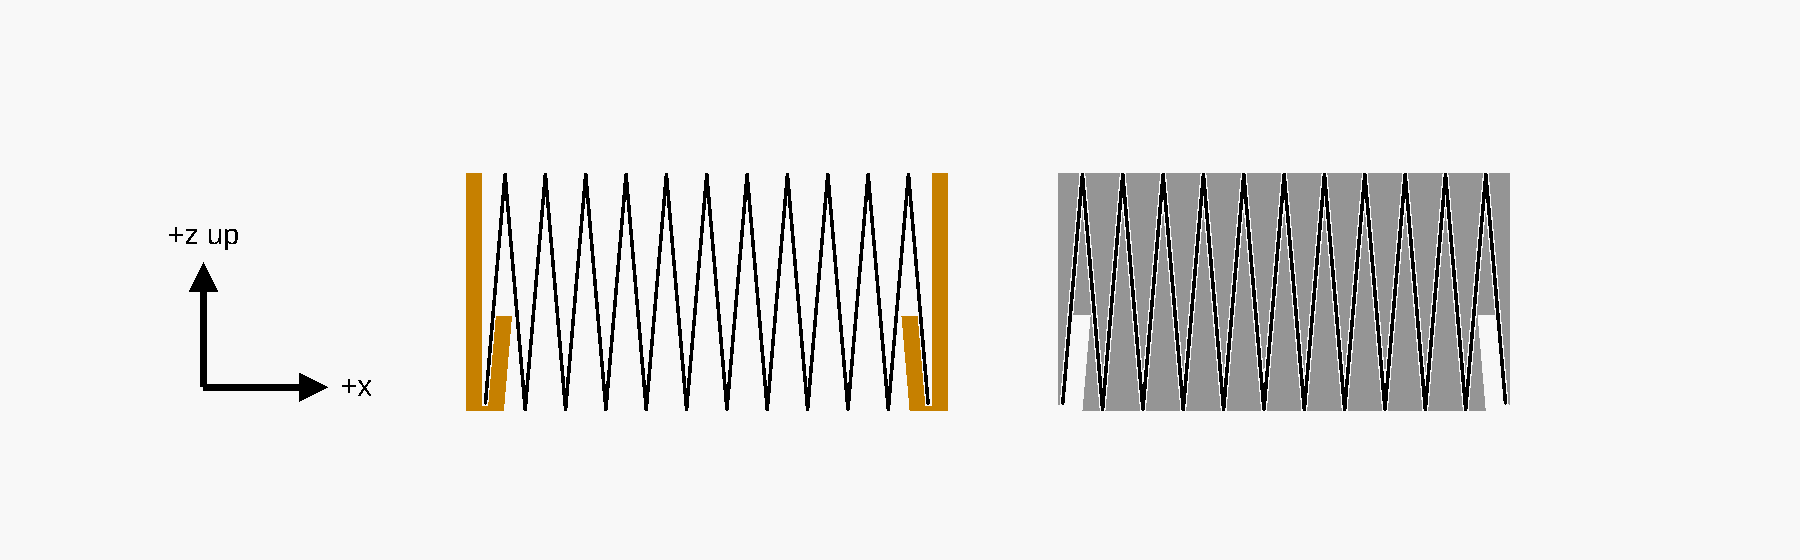
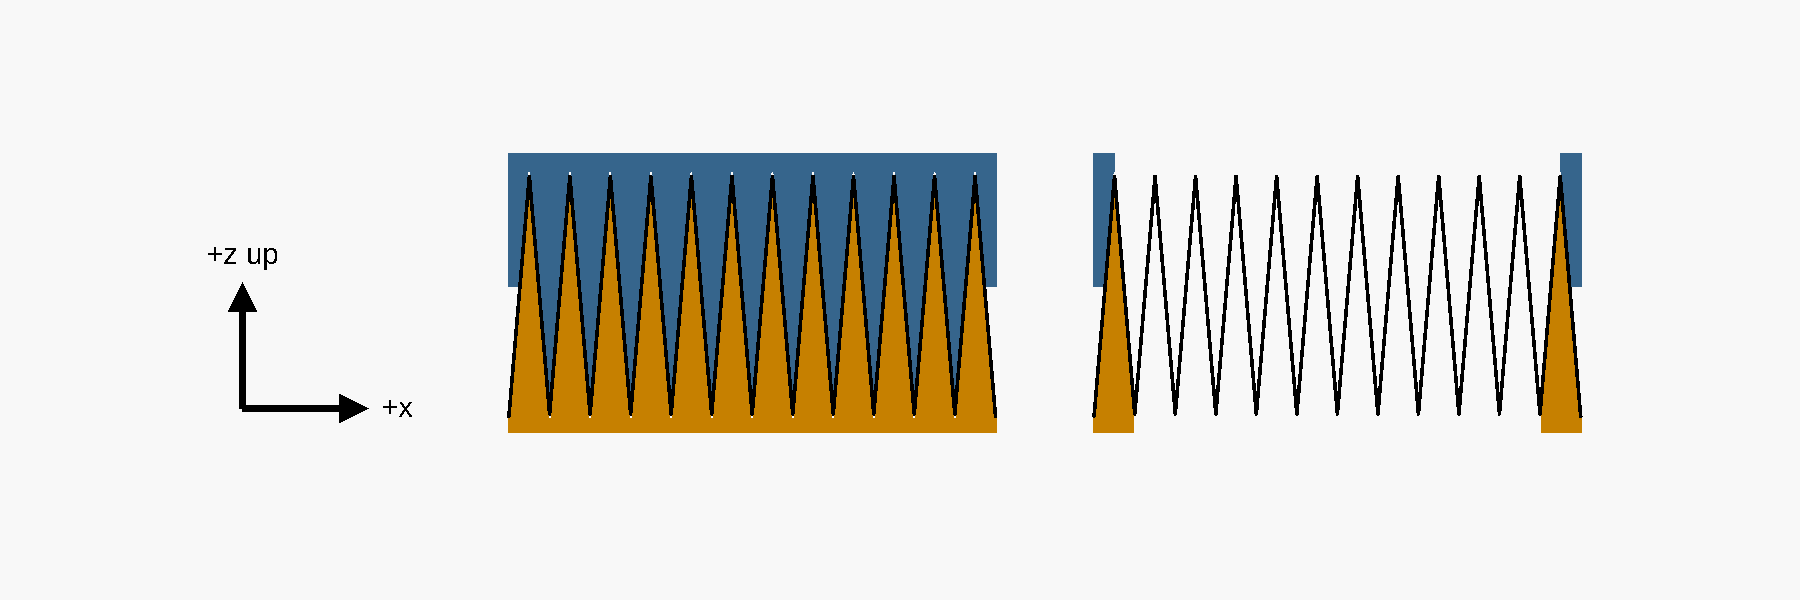
docs(bentobox): the HEPA paper's clamp on the build page
The section on your own HEPA paper now describes the clamp (D127): two
ASA frames, wedges and teeth pinching the cut ends in a 0.2 mm slot, the
flaps pinched along the long sides, the end blocks the one hard stop,
four M2 x 16 into pulled-in M2 nuts (M2 because an M2.5 nut leaves the
6.5 mm block under two beads), the cut - 87.1 mm by 11 pleats and a half
each side, 25 % more paper than the original's pocket took - how it goes
together, and the sample to try first. Parts table, print table,
hardware and the checks' description follow; the cap's picture gives
way to the frames as they print, and the section across the folds and
the frame's exploded view are drawn again.

Changed region(s): [[0.0933, 0.2429, 0.9022, 0.7589], [0.0933, 0.3946, 0.1556, 0.4554]]

diff --git a/scripts/bentobox-checks.py b/scripts/bentobox-checks.py
@@ -159,7 +159,7 @@ CAMERAS = {
     "section-bottom": ["--imgsize=1400,900", "--viewall", "--autocenter", "--camera=0,0,0,235,0,30,0"],
     "paper-frame": ["--imgsize=1400,1100", "--viewall", "--autocenter", "--camera=0,0,0,55,0,30,0"],
     "clamp-print": ["--imgsize=1400,900", "--viewall", "--autocenter", "--camera=0,0,0,55,0,25,0"],
-    "paper-cut": ["--imgsize=1800,560", "--projection=o", "--camera=-8,11,0,0,0,0,118"],
+    "paper-cut": ["--imgsize=1800,600", "--projection=o", "--camera=-12,11,0,0,0,0,125"],
     "auto-bottom": ["--imgsize=1400,1300", "--viewall", "--autocenter", "--camera=0,0,0,50,0,215,0"],
     "joints": ["--imgsize=1300,1800", "--viewall", "--autocenter", "--camera=0,0,0,62,0,30,0"],
 }

diff --git a/docs/bentobox-scrubber.md b/docs/bentobox-scrubber.md
@@ -24,8 +24,8 @@ The remix adds four parts, takes its bottom from the BentoBox Auto, and seals th
 | | What it does | File |
 |---|---|---|
 | **Section** | Goes between the carbon housing and the fan section, holding a flat filter sheet that stops carbon dust reaching the fans. Sealed at both its faces, with a pillar at each corner that the carbon housing's screws pass through. `sealed = false` builds it with the original's tongue, groove and magnets, to drop into any BentoBox v2.0 stack. | [`bentobox-section.scad`](../models/bentobox/bentobox-section.scad) |
-| **Paper ring** | Stands on the HEPA holder's ledge in place of the cartridge and holds a cut piece of pleated paper. | [`bentobox-hepa-ring.scad`](../models/bentobox/bentobox-hepa-ring.scad) |
-| **Paper cap** | Two, in TPU, one on each end of the paper: wedges from above and teeth from below hold the paper's cut end in a zigzag slot, closing its pleats' ends. | [`bentobox-hepa-cap.scad`](../models/bentobox/bentobox-hepa-cap.scad) |
+| **Paper clamp** | Two ASA frames, screwed together with a cut piece of pleated paper between them, standing on the HEPA holder's ledge in place of the cartridge: wedges from above and teeth from below pinch the paper's cut ends, and a bar from each its long edges. | [`bentobox-clamp-lower.scad`](../models/bentobox/bentobox-clamp-lower.scad), [`bentobox-clamp-upper.scad`](../models/bentobox/bentobox-clamp-upper.scad) |
+| **Clamp sample** | One end of each frame, on one plate: to try the pinch on an offcut before the whole clamp. | [`bentobox-clamp-sample.scad`](../models/bentobox/bentobox-clamp-sample.scad) |
 | **Base** | The Auto's, in place of the duct: the bay under it, the wires' tube, and six nuts where it had heat-set inserts: the fans' four pulled up into pockets, the plate's two in slots. | [`bentobox-auto-base.scad`](../models/bentobox/bentobox-auto-base.scad) |
 | **Fan section** | The Auto's, in place of the fan case, its top remixed for the sealed joint. | [`bentobox-auto-fans.scad`](../models/bentobox/bentobox-auto-fans.scad) |
 | **Plate** | The Auto's outline, closing the bay: flush with the base's bottom, its two screws' heads sunk in it. | [`bentobox-auto-plate.scad`](../models/bentobox/bentobox-auto-plate.scad) |
@@ -194,71 +194,75 @@ the original has it: magnets, a tongue on each top, a groove under each bottom.
 
 Pleated HEPA paper off a roll can take the bought cartridge's place. The original holder's pocket is
 82 × 40.8 mm, sized for the 80 mm cartridge: its ends are solid, flaring out only 15.6 mm above the ledge. The
-remix cuts the pocket out to the box's whole inside, 100.8 × 40.8 mm with its rounded corners, from the
-ledge up, and the ledge's opening with it, to 90.2 × 36.8 mm (78 × 36.8 on the original). A ring holds the
-paper there, with a slot along the foot of each long wall for the paper's edge, and a TPU cap on each end
-closes its pleats' ends. The ring's corners are square, so it stops where the pocket's corners begin to
-round: 93.3 mm long, and the paper in it 87.4, where it was 75.7 - 15 % more paper.
+remix cuts the pocket out to the box's whole inside, 100.8 × 40.8 mm with its rounded corners, from the ledge
+up, and the ledge's opening with it, to 87.5 × 36.8 mm (78 × 36.8 on the original).
 
-![The frame pulled apart: the ring, the cut paper above it with its folds running end to end, a cap drawn back from each end](bentobox/paper-frame.png)
+A clamp holds the paper there: two ASA frames with a cut piece of paper between them, screwed together into a
+cassette that stands on the ledge, 100.5 × 40.5 mm. It takes a piece 87.1 mm long and 40.3 mm across - 11
+pleats and a half each side - where the bought cartridge is 80 × 40 and the original's pocket took 75.7 ×
+37.2 of this paper: 25 % more paper than that.
+
+![The clamp pulled apart: the lower frame with its teeth, the cut paper over it with its folds running end to end, the upper frame with its wedges, and its four screws](bentobox/paper-frame.png)
 
 - **Why the ends need closing.** Pleated paper is a row of channels: one open at the top, where the dirty
   air comes in, then one open at the bottom, where it leaves after passing through the paper between them.
-  Cut, each channel is open at its ends too, and air could go round the paper there. Each cap has a wedge
-  in the end of every channel open at the top and a tooth in the end of every channel open at the bottom,
-  so the paper's cut end sits in a zigzag slot between them, 0.5 mm wide for 0.3 mm paper. The dirty side
-  is the one at higher pressure, by about 85 Pa, so the air presses the paper onto the teeth and closes
-  the slot; with wedges alone it would push the paper away from them. The teeth also hold up the paper's
-  ends, which stand over the ledge's opening, and they cover no paper the wedges do not already cover.
-- **The long sides.** The paper runs on half a pleat past its last top fold, down to the foot of the
-  ring's wall, as a flap. Its cut end stands in a slot between the wall and a strip moulded onto the wall's
-  foot, 8 mm tall. Dirty air between the flap and the wall presses the flap onto the strip, the whole
-  length of the ring: a strip of contact, not the line of a fold against a wall. At each end the flap runs
-  on into the cap's slot, so the seal goes round the corner.
+  Cut, each channel is open at its ends too, and air could go round the paper there. At each end the upper
+  frame has a wedge in every channel open at the top, and the lower frame a tooth in every channel open at
+  the bottom, 4 mm into the paper. Screwed together they leave a zigzag slot 0.2 mm wide for 0.3 mm paper:
+  the four screws pinch the paper's cut end between the wedges and the teeth. The pleats' walls lean only
+  5° from upright, so the last millimetre of the screws' travel closes the slot.
+- **The long sides.** The paper runs on half a pleat past its last top fold, down to the lower frame's rim,
+  as a flap. The upper frame's half wedge runs down outside it, the whole length, and the lower frame's tooth
+  under the last top fold inside it: the screws pinch the flap between them too.
+- **One hard stop.** Each end is a block in two halves, the upper frame's on the lower's, and the frames meet
+  nowhere else: the band round the top and the rim round the bottom stand 0.2 mm clear of the paper's folds,
+  so the slot's width is set by the frames, not by the paper.
 
-  ![Across the folds, flat: on the left the ring's middle, its walls and the strips at their feet, each flap down in its slot; on the right a cap's face, its wedges and teeth round the paper, notched where the strips pass](bentobox/paper-cut.png)
+  ![Across the folds, flat: on the left the clamp at an end, the upper frame's wedges and the lower frame's teeth round the paper's zigzag; on the right at its middle, a half wedge and a long tooth round each flap](bentobox/paper-cut.png)
+- **The screws.** Four M2 × 16 socket head, two at each end, from the top, their heads sunk in the upper
+  frame, into M2 nuts pulled up into seats in the lower frame, as the fans' nuts are in the base. M2, not the
+  M2.5 first drawn: an end block is 6.5 mm along the pleats, and an M2.5 nut's pocket leaves it under two
+  beads of wall.
 - **Cutting the paper.** For this build's paper, 20 mm deep with about 3.3 mm between top folds: a piece
-  **87.4 mm long along the folds, and 10 pleats across with half a pleat more each side** - both long
-  edges cut along a bottom fold. Count the pleats rather than measuring the width: folded, that is about
-  36.7 mm, and the ring spreads it to 37.2. The roll's 300 × 100 mm pack gives six pieces.
-- **Putting it together.** Push a cap onto each end of the piece, with its wedges at the top, where the
-  air comes in, and every pleat wall in its slot. Lower the three into the ring, each flap running down
-  between the wall and its strip; the ring stands on the ledge like the cartridge. To take it out, lift the
-  holder off the stack and tip it over. Print one cap first and try it on an offcut: the slots are barely
-  wider than a printed line, and how well TPU keeps them open is for the print to show.
-- **If dust gets round it.** Nothing is glued. If a dusty streak ever shows along an edge of the paper's
-  underside, run hot glue along that flap in its slot: standard sticks, not low-temperature ones, since the
-  chamber runs at about 45 °C during an ASA print. Hot glue peels off the ASA ring, so the ring can still
-  be used again.
+  **87.1 mm long along the folds, and 11 pleats across with half a pleat more each side** - both long edges
+  cut along a bottom fold. Count the pleats rather than measuring the width: folded, that is about 40 mm, and
+  the clamp spreads it to 40.3. The roll's 300 × 100 mm pack gives six pieces.
+- **Putting it together.** Pull an M2 nut into each of the lower frame's four seats with a spare M2 screw from
+  above, and take the screw out: the nut stays. Lay the lower frame down, teeth up, and the paper on it, its
+  channels open at the bottom over the teeth at each end and each flap's cut end on the rim outside the long
+  teeth. Lower the upper frame on, its wedges into the channels open at the top and its half wedges outside
+  the flaps, and drive the four screws until the end blocks meet. Drop the cassette onto the holder's ledge;
+  to take it out, lift the holder off the stack and tip it over.
+- **Try it first.** The slot's 0.2 mm is a first guess, and so is the paper's thickness. Print the clamp sample
+  - one end of each frame, an hour - clamp an offcut 16 mm long in it, and look at the cut end: the paper should
+  be pinched all along the zigzag without being cut.
 
-![A cap as it prints: the plate on the bed, the wedges and teeth standing up out of it, the zigzag slot between them](bentobox/paper-cap.png)
+![The clamp's two frames as they print: the lower standing on its rim, the upper turned over onto its band](bentobox/clamp-print.png)
 
-**Other paper:** change its three values in
-[`bentobox.params.scad`](../models/bentobox/bentobox.params.scad) - `paper_depth` (fold to fold),
-`paper_pitch` (top fold to top fold) and `paper_t` (its thickness) - and export the ring and the cap again.
-The ring stands as tall as the paper is deep. The pleats across are the whole number nearest to filling
-the ring, and the wedges, teeth and strips are placed to match; rendering either part echoes the new cut.
-The slots are `slot_play`, 0.2 mm, wider than `paper_t`: paper thicker than a slot will not go in, and
-thinner paper sits loose and is pressed onto the teeth and the strips. `paper_flaps = false` cuts the long
-edges on a top fold instead, resting against the wall with no strips; `cap_teeth_below = false` leaves
-the wedges alone.
+**Other paper:** change its values in [`bentobox.params.scad`](../models/bentobox/bentobox.params.scad) -
+`paper_depth` (fold to fold), `paper_pitch` (top fold to top fold) and `paper_t` (its thickness), and
+`clamp_slot` a little under `paper_t` - and export the frames again. The clamp stands as tall as the paper is
+deep. The pleats across are the whole number nearest to filling it, and the wedges and teeth are placed to
+match; rendering either frame echoes the new cut. `paper_flaps = false` cuts the long edges on a top fold
+instead.
 
 **Still to confirm** for this build's paper: the 3.3 mm between folds is worked out from the roll, 1200 mm
-folded into 100, not counted, and the 0.3 mm thickness is an estimate - the one that matters, since it sets
-the slot. Anything from 28 to 30 folds in 100 mm gives the same parts.
+folded into 100, not counted, and the 0.3 mm thickness is an estimate - the one that matters, since the slot
+pinches it. Anything from 28 to 30 folds in 100 mm gives the same parts.
 
 ## Printing
 
 The cover and the C-MAG print as the author's project lays them out; the remix's parts print as their files
-draw them, standing on their bottoms - the section, the ring, the base, the fan section, the carbon housing
-and the HEPA holder - a cap with its plate on the bed, the plate on its outer face, its lobes up, and a bead
-ring flat. No supports, no brim. Standing, the base's bay roof is a 41 mm bridge, as the Auto has it.
+draw them, standing on their bottoms - the section, the base, the fan section, the carbon housing
+and the HEPA holder - the clamp's lower frame on its rim and its upper frame turned over onto its band, the
+plate on its outer face, its lobes up, and a bead ring flat. No supports, no brim. Standing, the base's bay roof is a 41 mm bridge, as the Auto has it.
 
 | Part | Material | Count | Time | Filament |
 |---|---|---|---|---|
 | Section | ASA | 1 | 1 h 57 m | 17 g |
-| Paper ring | ASA | 1 | 1 h 14 m | 9 g |
-| Paper cap | TPU 95A | 2 | 52 m each | 5 g each |
+| Clamp, lower frame | ASA | 1 | 1 h 32 m | 11 g |
+| Clamp, upper frame | ASA | 1 | 1 h 19 m | 9 g |
+| Clamp sample | ASA | 1 plate | 1 h 6 m | 7 g |
 | Base | ASA | 1 | 4 h 17 m | 44 g |
 | Fan section | ASA | 1 | 3 h 42 m | 36 g |
 | Plate | ASA | 1 | 37 m | 8 g |
@@ -270,7 +274,7 @@ ring flat. No supports, no brim. Standing, the base's bay roof is a 41 mm bridge
 
 Times and weights are PrusaSlicer's, at 0.2 mm with the house profile `0.2mm QUALITY @MK3 - no skirt, no
 brim, no crossing perimeter`, as [`scad-check.sh`](https://github.com/AlonRR/scad-tools) slices them, with
-`Inslogic TPU 95A` for the caps and the bead rings.
+`Inslogic TPU 95A` for the bead rings.
 
 For the bottom:
 
@@ -290,6 +294,13 @@ For the sealed joints:
 | 8 | 4 × 2 mm magnet: the cover's joint, four in the HEPA holder and four in the cover |
 
 For the joint sample, from the same stock: 3 M3 nuts, 2 M3 × 12 and 1 M3 × 8.
+
+For the paper's clamp:
+
+| Quantity | Item |
+|---|---|
+| 4 | M2 hex nut, ISO 4032 |
+| 4 | M2 × 16 socket head cap screw, ISO 4762, and a spare to pull the nuts in with |
 
 ## The air through it
 
@@ -394,14 +405,15 @@ collar, tab on tab - lays each bead in its groove, runs each screw from its head
 and the section's pillars, sets a nut in each slot and slides it out through the tab's end, and keeps the
 room over each screw's head clear. With `sealed=false` it checks the original's joints: the section against
 the carbon housing above it and the fan section below it, a magnet across each joint through both parts'
-holes. It runs the air's way from the housing's floor openings down through the section. For the paper's frame it stands the ring in the original HEPA holder, runs the ledge's opening
-up through the ring's walls, sets the caps' wedges and teeth and the ring's strips in a model of the paper
-drawn from the paper's own values, and the caps against the strips. For the bottom it stands the fan
+holes. It runs the air's way from the housing's floor openings down through the section. For the paper's clamp it stands the cassette in the cut-out HEPA holder, sets the
+upper frame on the lower one - meeting only at the end blocks - lays a model of the paper, drawn from its own
+values at the slot's thickness, in the frames' zigzag, keeps the air's way down under the paper open, and
+runs the four screws through the end blocks and the nuts into their seats and down out of them. For the bottom it stands the fan
 section on the base and the plate in its recess, sets a nut in each slot and slides it out through the
-slot's mouth, and one in each fan screw's pocket and draws it 10 mm down out of it, runs each screw from its head to its tip, and the wires down the tube, and the fans' air
+slot's mouth, and one in each fan screw's seat and draws it down its pocket and out under its post, runs each screw from its head to its tip, and the wires down the tube, and the fans' air
 down into the base past the posts. Each must come out empty. Every check has a positive control,
-something broken on purpose that it must catch, and the run fails if one passes unnoticed: 25 fits and
-31 controls.
+something broken on purpose that it must catch, and the run fails if one passes unnoticed: 27 fits and
+35 controls.
 
 [`bentobox.params.scad`](../models/bentobox/bentobox.params.scad) holds the original's dimensions, measured
 by sectioning its STLs, and every setting of the section and of the paper's frame.

diff --git a/README.md b/README.md
@@ -21,7 +21,7 @@ there.
 [`docs/chamber-sensor.md`](docs/chamber-sensor.md) is the full status and the index to the topic pages;
 [`docs/chamber-airflow.md`](docs/chamber-airflow.md) is the filter and extraction build, and
 [`docs/bentobox-scrubber.md`](docs/bentobox-scrubber.md) the filter itself: ThrutheFrame's BentoBox v2.0,
-remixed, with a carbon-dust section, sealed joints, the BentoBox Auto's bottom and a frame for the build's own
+remixed, with a carbon-dust section, sealed joints, the BentoBox Auto's bottom and a screwed clamp for the build's own
 HEPA paper. The LunchBox remix it was weighed against is archived in [`archive/lunchbox/`](archive/lunchbox/).
 
 ## What is where
@@ -30,7 +30,7 @@ HEPA paper. The LunchBox remix it was weighed against is archived in [`archive/l
 |---|---|
 | [`docs/chamber-sensor.md`](docs/chamber-sensor.md), [`docs/chamber-sensor/`](docs/chamber-sensor/) | the record and the decisions: sensors, the node, boards, WiFi, the SuperMini antenna, measurements, heating and airflow, the build order |
 | [`docs/chamber-airflow.md`](docs/chamber-airflow.md) | the two-fan filter and extraction plan |
-| [`docs/bentobox-scrubber.md`](docs/bentobox-scrubber.md), [`models/bentobox/`](models/bentobox/), [`scripts/bentobox-checks.py`](scripts/bentobox-checks.py), [`scripts/bentobox-auto-stl.py`](scripts/bentobox-auto-stl.py) | the filter: BentoBox v2.0 with its carbon magazine, a carbon-dust section for it, sealed joints, a frame for the build's own HEPA paper, the BentoBox Auto's bottom with nuts for its heat-set inserts, and its fit checks |
+| [`docs/bentobox-scrubber.md`](docs/bentobox-scrubber.md), [`models/bentobox/`](models/bentobox/), [`scripts/bentobox-checks.py`](scripts/bentobox-checks.py), [`scripts/bentobox-auto-stl.py`](scripts/bentobox-auto-stl.py) | the filter: BentoBox v2.0 with its carbon magazine, a carbon-dust section for it, sealed joints, a screwed clamp for the build's own HEPA paper, the BentoBox Auto's bottom with nuts for its heat-set inserts, and its fit checks |
 | [`sim/`](sim/) | the filter's airflow simulation, OpenFOAM, from its model |
 | [`archive/lunchbox/`](archive/lunchbox/) | archived 8 Oct 2026, not built: the LunchBox remix it was weighed against - its parts, build page, fit checks and airflow simulation, as they were, and still working |
 | [`scad-tools/`](https://github.com/AlonRR/scad-tools) | the shared OpenSCAD tools, a git submodule: `scad-check.sh`, and the xyz arrows the pictures use |
